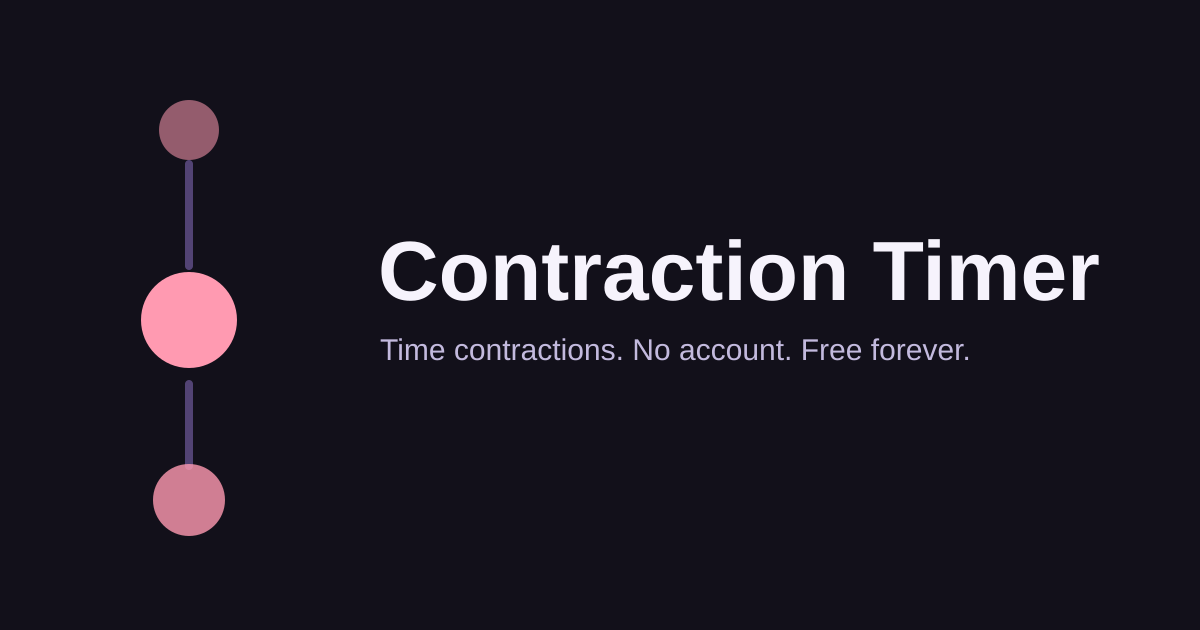
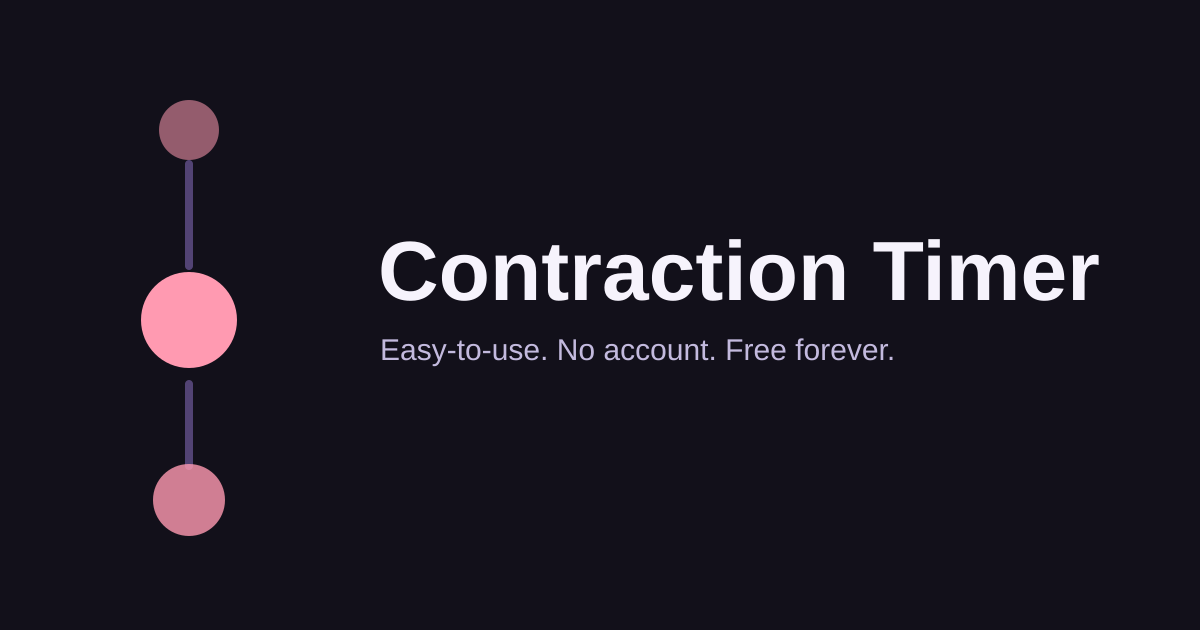
Simplify link-preview copy everywhere, not just the image
Updates the image's subtitle line and drops the "offline/no
tracking" phrasing from the meta/og/twitter description tags too, so
the messaging is consistent across the actual preview image and the
text a client shows alongside it.

Changed region(s): [[0.3083, 0.5429, 0.8017, 0.573]]

diff --git a/index.html b/index.html
@@ -9,19 +9,19 @@
     <meta name="apple-mobile-web-app-capable" content="yes" />
     <meta name="apple-mobile-web-app-status-bar-style" content="black-translucent" />
     <title>Contraction Timer</title>
-    <meta name="description" content="Time contractions, see the pattern, works completely offline. No account, no tracking." />
+    <meta name="description" content="Easy-to-use. No account. Free forever." />
 
     <meta property="og:type" content="website" />
     <meta property="og:url" content="https://contraction-timer.calebdudley.dev/" />
     <meta property="og:title" content="Contraction Timer" />
-    <meta property="og:description" content="Time contractions, see the pattern, works completely offline. No account, no tracking." />
+    <meta property="og:description" content="Easy-to-use. No account. Free forever." />
     <meta property="og:image" content="https://contraction-timer.calebdudley.dev/og-image.png" />
     <meta property="og:image:width" content="1200" />
     <meta property="og:image:height" content="630" />
 
     <meta name="twitter:card" content="summary_large_image" />
     <meta name="twitter:title" content="Contraction Timer" />
-    <meta name="twitter:description" content="Time contractions, see the pattern, works completely offline. No account, no tracking." />
+    <meta name="twitter:description" content="Easy-to-use. No account. Free forever." />
     <meta name="twitter:image" content="https://contraction-timer.calebdudley.dev/og-image.png" />
     <style>
       html,
